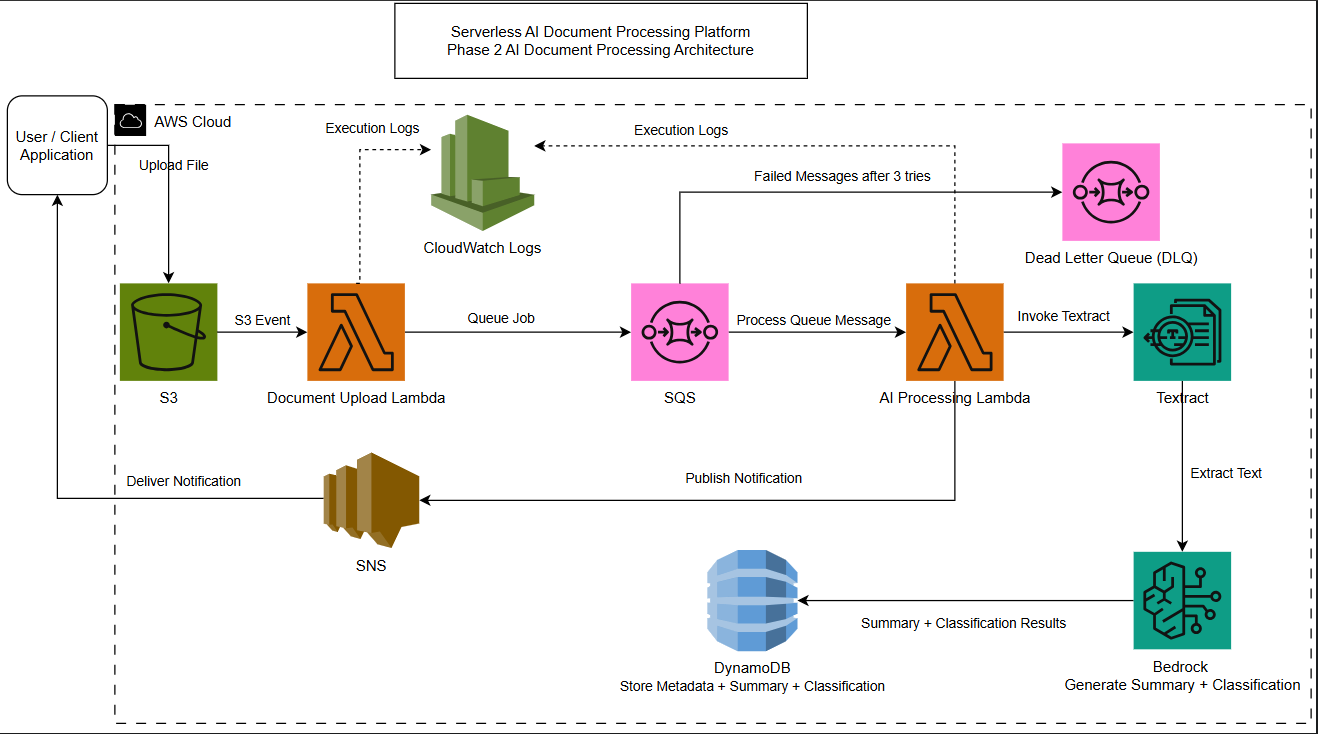
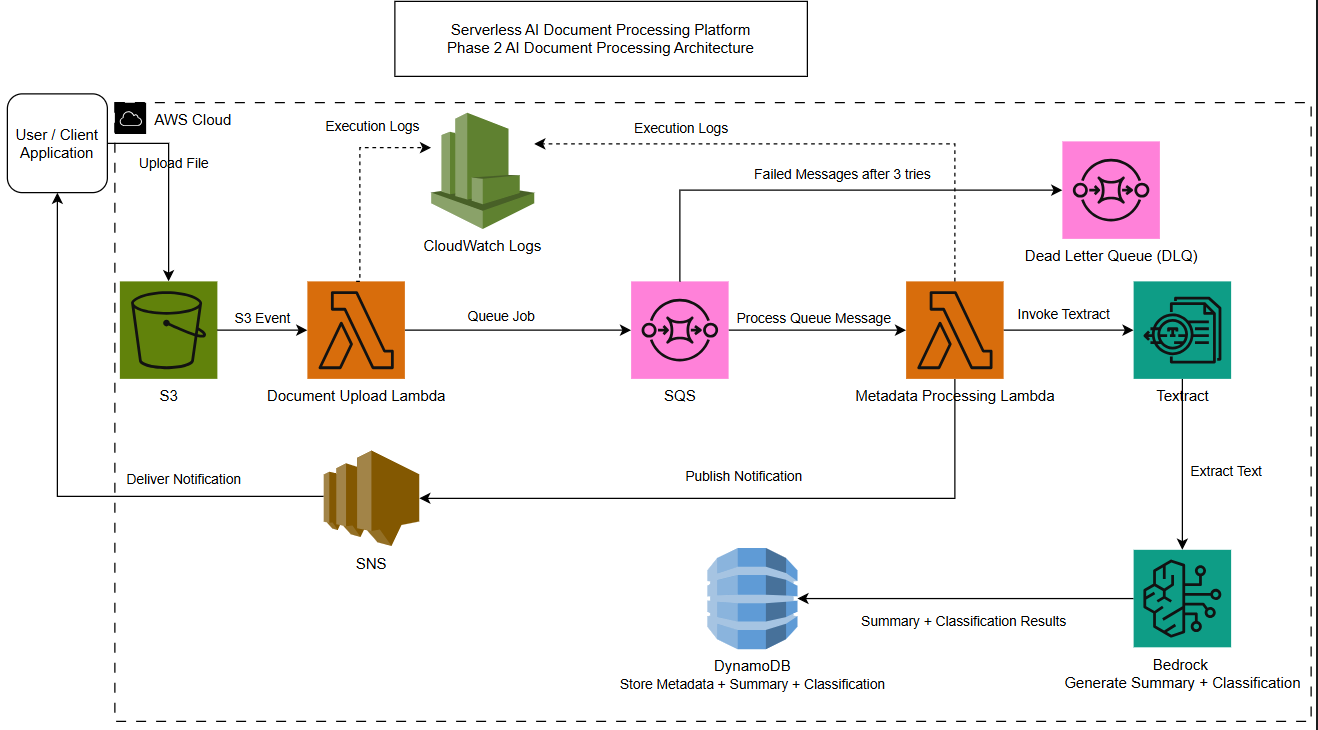
Updated README and diagram

diff --git a/README.md b/README.md
@@ -3,6 +3,7 @@ This project implements a serverless, event-driven document processing pipeline 
 
 The project is designed as the foundation for a future AI-powered document processing and RAG system.
 
+
 Project Overview:
 
 
@@ -51,6 +52,14 @@ Event Flow:
 6. Metadata processing Lambda stores metadata in DynamoDB.
 7. Metadata processing Lambda publishes a success notification to SNS.
 8. User receives an email notification.
+
+
+The Metadata Processing Lambda was extended to perform:
+- Textract extraction
+- Bedrock summarization
+- Bedrock classification
+- DynamoDB storage
+- SNS notification
 
 
 Monitoring and Logging: